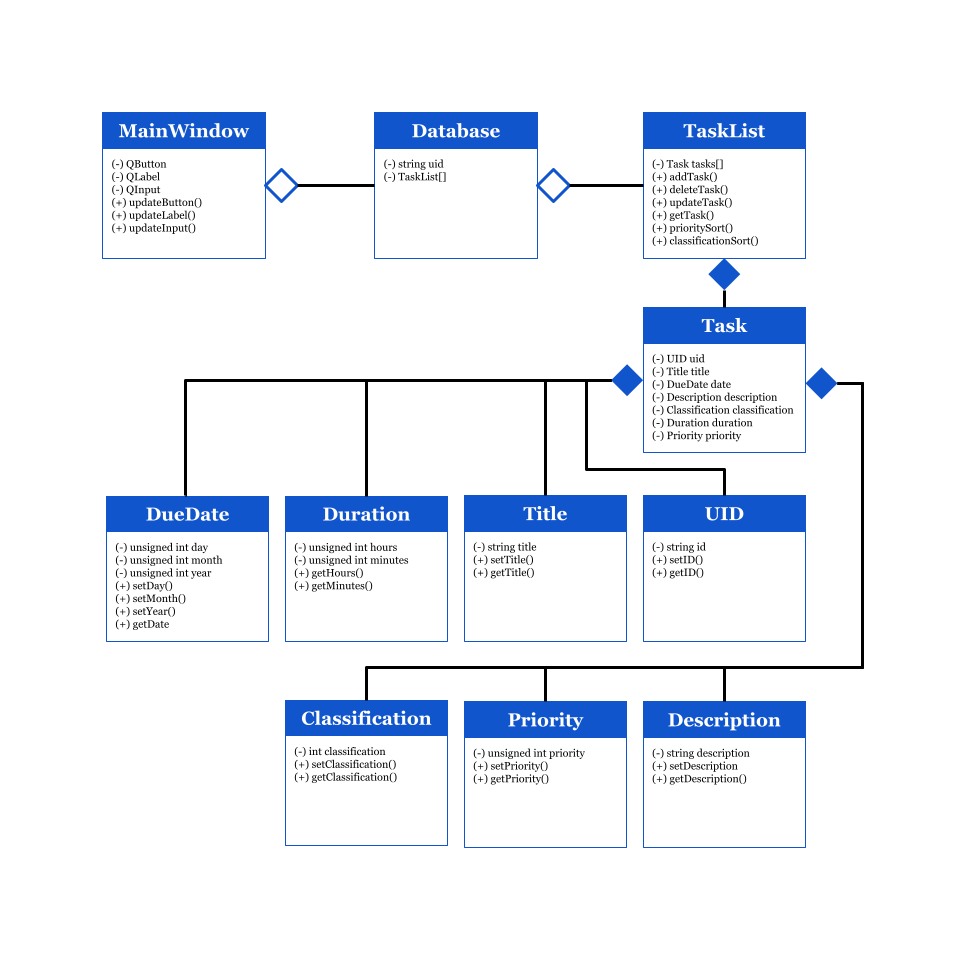
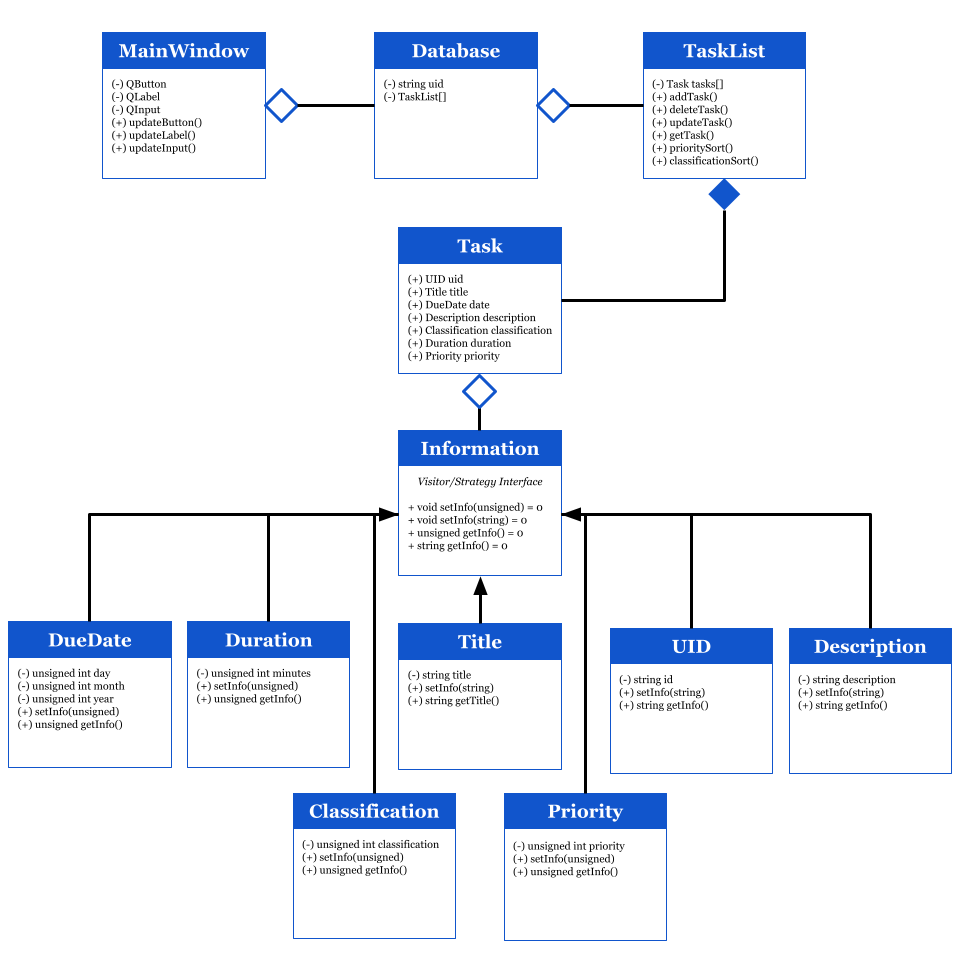
update uml and add visitor

diff --git a/README.md b/README.md
@@ -19,7 +19,7 @@ As college students, it is very difficult to juggle assingments, reports, classe
 <img src="images/UML_Diagram.png">
  
 ## Design Pattern: Strategy Pattern
-We used the strategy pattern, as our algorithms and methods were very similar with minimal changes between each implementation. Given our intial iteration of our design pattern, we were able to see that the strategy pattern would be the most benficial for our numerous classes required. Using this feature we were able to implement an interface class <i>Information</i> and then proceeded to create the <i>UID, Description, Priority, Classification, Title, Duration, DueDate</i> classes that inherited from the <i>Information</i> class and defined the setInformation and getInformation methods, along with any special functions that class may require! This design pattern made it clear that all the various classes were related in terms of the methods they will be implementing. It also made it easier to be able to easily work with the Task class, as everything was consitent and easy to follow and test! 
+We used the strategy pattern, as our algorithms and methods were very similar with minimal changes between each implementation. Given our intial iteration of our design pattern, we were able to see that the strategy pattern would be the most benficial for our numerous classes required. Using this feature we were able to implement an interface class <i>Information</i> and then proceeded to create the <i>UID, Description, Priority, Classification, Title, Duration, DueDate</i> classes that inherited from the <i>Information</i> class and defined the setInformation and getInformation methods, along with any special functions that class may require! However, we ran into the problem of varying return types among the function. To resolve this, we resorted to a combination of the Strategy and Visitor pattern. The Visitor pattern allows us to keep multiple iterations of a method and simply change the parameters or return type to prevent the methods types being determined at runtime but rather statically. These design patterns made it clear that all the various classes were related in terms of the methods they will be implementing. It also made it easier to be able to easily work with the Task class, as everything was consitent and easy to follow and test! 
  
  > ## Final deliverable
  > All group members will give a demo to the TA/reader during lab time. The TA/reader will check the demo and the project GitHub repository and ask a few questions to all the team members. 
